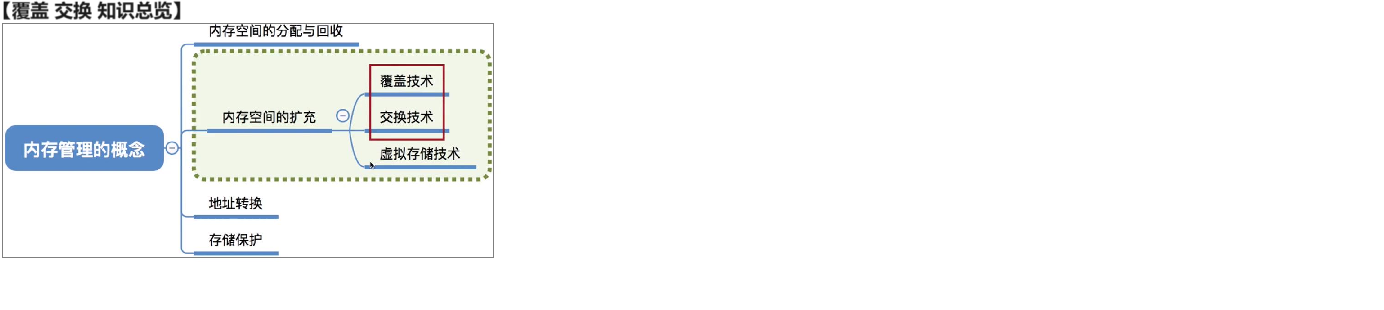
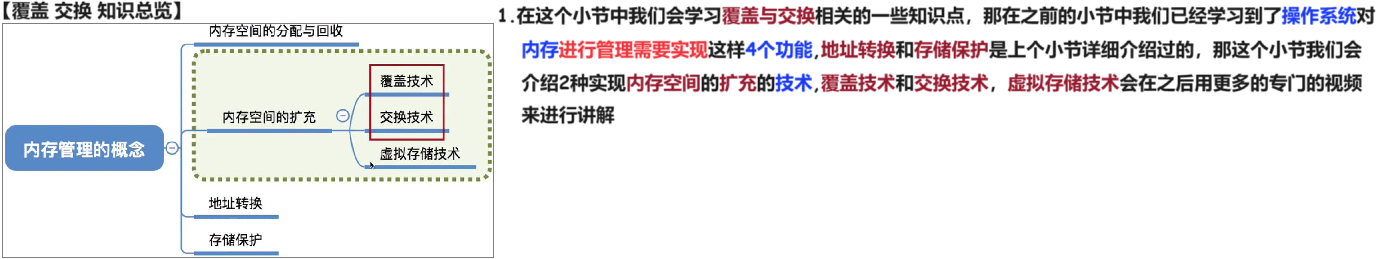
240513

Changed region(s): [[0.0, 0.0, 0.9985, 0.7104], [0.0, 0.7413, 0.3745, 0.8649], [0.0, 0.8958, 0.3745, 1.0]]

diff --git a/01 初试/01 OS/02 24 25 王道/01 基础/03 内存管理/01 内存管理 概念/04 覆盖 交换 240513/02 Doc.md b/01 初试/01 OS/02 24 25 王道/01 基础/03 内存管理/01 内存管理 概念/04 覆盖 交换 240513/02 Doc.md
@@ -4,3 +4,15 @@
 
 # 01 覆盖 交换 知识总览
 
+<img src="https://cvp.oss-cn-shanghai.aliyuncs.com/picgo/202405131149600.png" alt="image-20240513114911501" style="zoom: 50%;" />
+
+
+
+# 02 覆盖技术
+
+<img src="https://cvp.oss-cn-shanghai.aliyuncs.com/picgo/202405131246497.png" alt="image-20240513124607248" style="zoom:50%;" />
+
+
+
+# 03 交换技术
+
